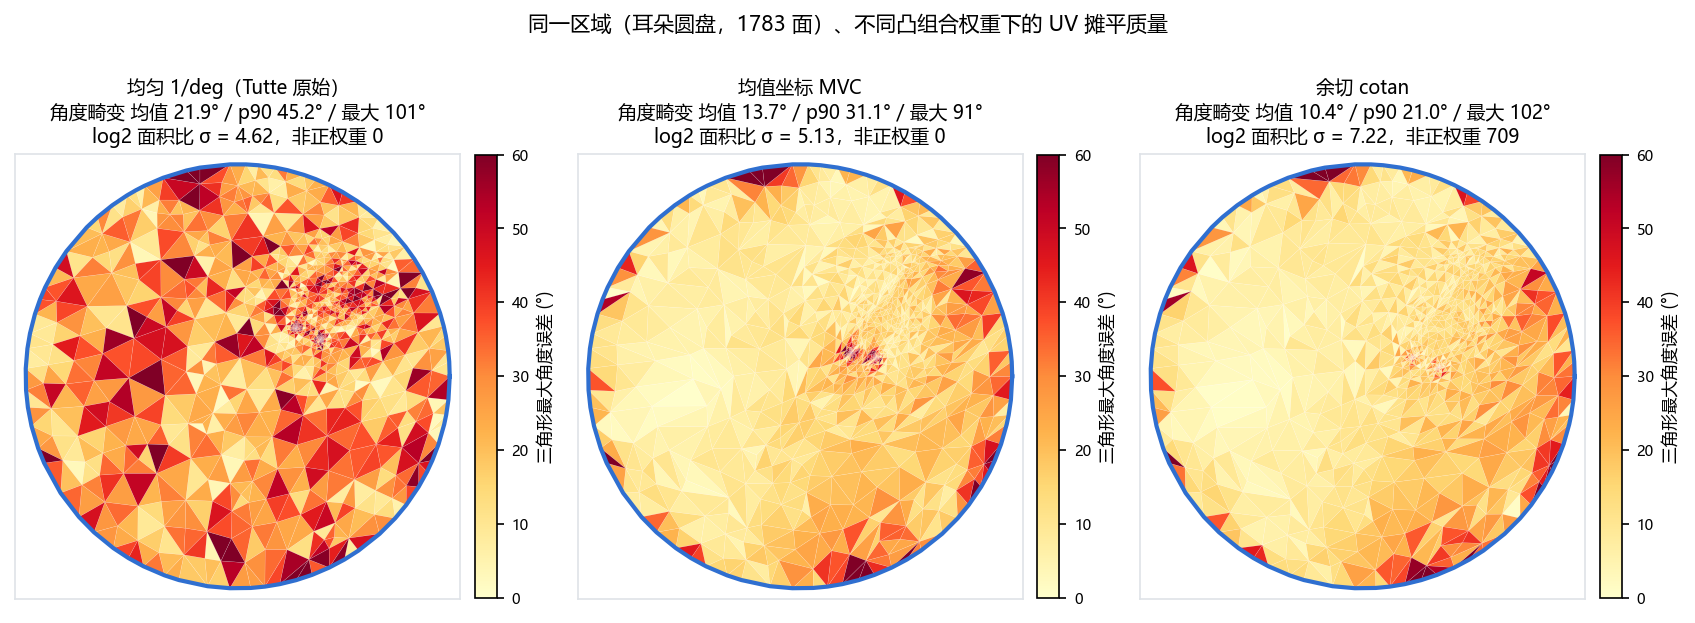
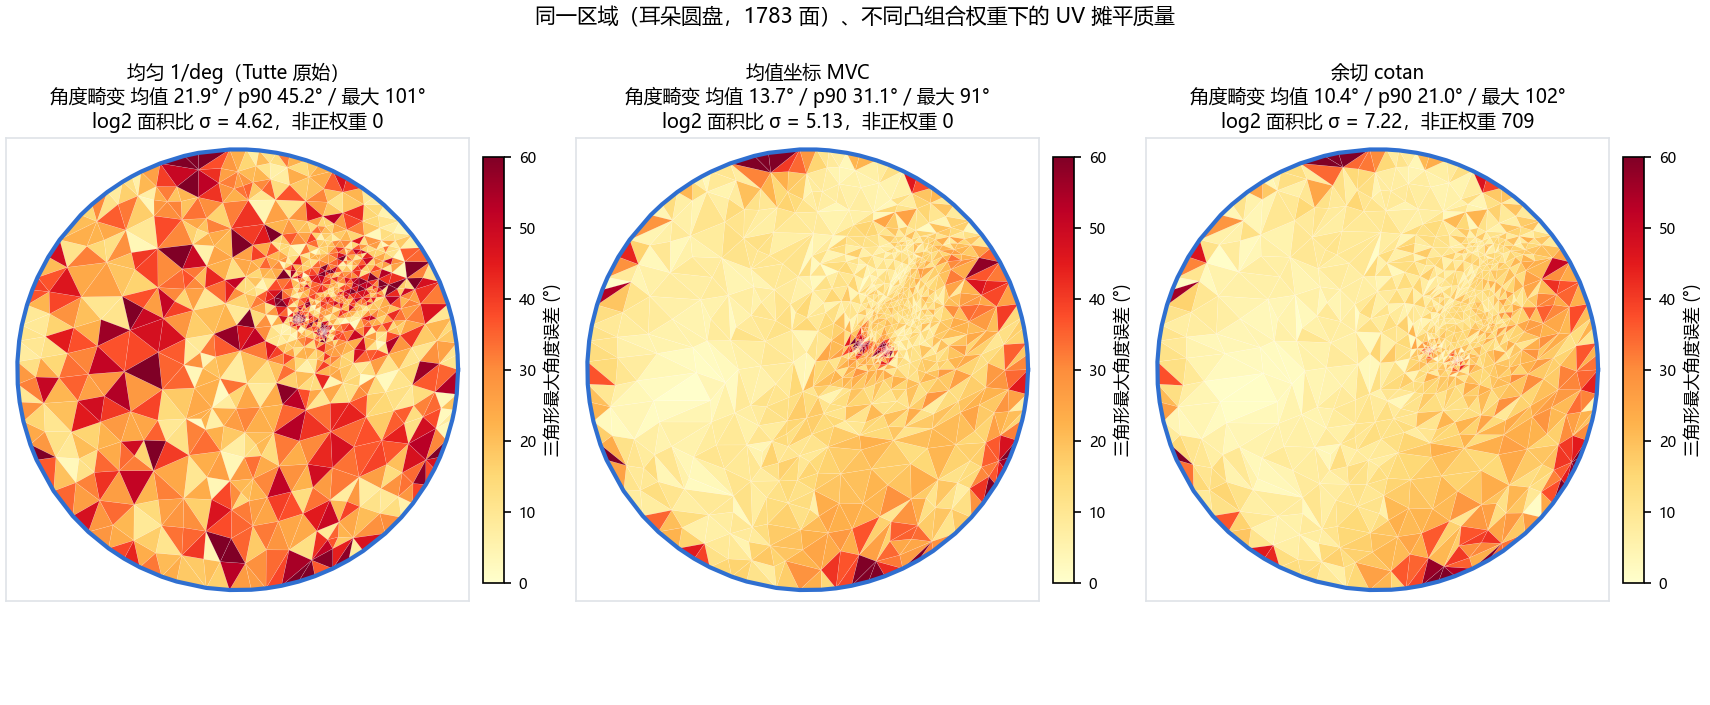
图 2 改用 constrained layout，图例移到底部；新增 check-fig-overlap.py 出图自检

diff --git a/render-theory-figs.py b/render-theory-figs.py
@@ -311,8 +311,12 @@ def fig_convex_combo():
     nb = nb[np.argsort(np.arctan2(nb[:, 1], nb[:, 0]))]
     k = len(nb)
 
-    fig, axes = plt.subplots(1, 2, figsize=(9.6, 4.6))
-    fig.subplots_adjust(left=0.03, right=0.97, top=0.88, bottom=0.06, wspace=0.12)
+    from matplotlib.gridspec import GridSpec
+    # 用 constrained layout 让 matplotlib 自己算间距：总标题在顶、图例在底，
+    # 不再手工写 top/bottom，避免文字互相压到
+    fig = plt.figure(figsize=(10.2, 6.75), layout='constrained')
+    gs = GridSpec(2, 2, figure=fig, height_ratios=[4.4, 1.0])
+    fig.get_layout_engine().set(wspace=0.16, hspace=0.10, w_pad=0.02, h_pad=0.06)
 
     from scipy.spatial import ConvexHull, Delaunay
     hull_idx = ConvexHull(nb).vertices
@@ -335,35 +339,77 @@ def fig_convex_combo():
           % (w.sum(), w2.sum(), bool(inside.find_simplex(ctr) >= 0),
              bool(inside.find_simplex(ctr2) < 0)))
 
-    for ax, ctr_i, w_i, title, sub in (
-        (axes[0], ctr, w, '(a) $w_{ij}>0$、$\\sum_j w_{ij}=1$：重心落在邻居凸包内', '绕向一致，局部单射'),
-        (axes[1], ctr2, w2, '(b) $w_1=-0.60$（仍满足 $\\sum_j w_{ij}=1$）：重心被推出凸包', '绕向翻转，出现翻面'),
-    ):
+    for col, (ctr_i, w_i, title, sub) in enumerate((
+        (ctr, w, '(a) $w_{ij}>0$、$\\sum_j w_{ij}=1$', '重心落在邻居凸包内，绕向一致'),
+        (ctr2, w2, '(b) $w_1=-0.60$（仍有 $\\sum_j w_{ij}=1$）', '重心被推出凸包，绕向翻转'),
+    )):
         from matplotlib.patches import Polygon as MplPoly
+        ax = fig.add_subplot(gs[0, col])
         ax.add_patch(MplPoly(hull, closed=True, facecolor='#eef3fa', edgecolor=LINE, lw=1.0, zorder=0))
+        nflip = 0
         for j in range(k):
             a, b = nb[j], nb[(j + 1) % k]
             tri = np.vstack([ctr_i, a, b])
             s = (a[0] - ctr_i[0]) * (b[1] - ctr_i[1]) - (b[0] - ctr_i[0]) * (a[1] - ctr_i[1])
             bad = s <= 0
+            nflip += bad
             ax.add_patch(MplPoly(tri, closed=True,
                                  facecolor=(RED if bad else '#dce9f8'),
                                  edgecolor=(RED if bad else BLUE), lw=1.0, alpha=0.9, zorder=1))
         cols = [RED if x < 0 else GREEN for x in w_i]
-        ax.scatter(nb[:, 0], nb[:, 1], s=58, c=cols, zorder=3, edgecolors='white', linewidths=1)
-        ax.scatter([ctr_i[0]], [ctr_i[1]], s=95, c=BLUE, marker='*', zorder=4,
-                   edgecolors='white', linewidths=0.8)
+        ax.scatter(nb[:, 0], nb[:, 1], s=560, c=cols, zorder=3,
+                   edgecolors='white', linewidths=1.4)
         for j in range(k):
-            ax.annotate(f'$w_{{{j}}}=${w_i[j]:+.2f}',
-                        (nb[j, 0], nb[j, 1]),
-                        (nb[j, 0] * 1.28 + 0.03, nb[j, 1] * 1.28),
-                        fontsize=8.5, color=(RED if w_i[j] < 0 else GREY), ha='center')
-        ax.set_xlim(-1.55, 1.65); ax.set_ylim(-1.55, 1.65)
+            ax.text(nb[j, 0], nb[j, 1], str(j), ha='center', va='center',
+                    fontsize=9, color='white', zorder=5)
+        ax.scatter([ctr_i[0]], [ctr_i[1]], s=170, c=BLUE, marker='*', zorder=4,
+                   edgecolors='white', linewidths=0.8)
+        ax.annotate('重心', (ctr_i[0], ctr_i[1]), xytext=(0, -30),
+                    textcoords='offset points', fontsize=9.5, color=BLUE, ha='center',
+                    arrowprops=dict(arrowstyle='->', color=BLUE, lw=1.0,
+                                    shrinkA=2, shrinkB=6))
+        ax.set_xlim(-1.60, 1.60); ax.set_ylim(-1.50, 1.55)
         ax.set_aspect('equal'); ax.axis('off')
-        ax.set_title(title + '\n' + sub, fontsize=10.5, pad=6)
+        ax.set_title(title + '\n' + sub + f'（翻面 {nflip}）', fontsize=10.5, pad=6)
 
-    fig.suptitle('图 2  凸组合条件：内部顶点取邻居的加权平均，权重为正时绕向不变',
-                 fontsize=11.5, y=0.97)
+        # 权重条形图
+        axb = fig.add_subplot(gs[1, col])
+        axb.bar(np.arange(k), w_i, width=0.62,
+                color=[RED if x < 0 else GREEN for x in w_i], zorder=2)
+        axb.axhline(0, color=GREY, lw=0.9, zorder=3)
+        for j, v in enumerate(w_i):
+            axb.text(j, v + (0.03 if v >= 0 else -0.13), f'{v:+.2f}',
+                     ha='center', fontsize=8.5, color=(RED if v < 0 else GREY))
+        axb.set_xticks(np.arange(k))
+        axb.set_xticklabels([f'$w_{j}$' for j in range(k)], fontsize=9)
+        axb.set_ylim(-0.95, 0.62)
+        axb.set_ylabel('权重', fontsize=9)
+        for s_ in ('top', 'right'):
+            axb.spines[s_].set_visible(False)
+        for s_ in ('left', 'bottom'):
+            axb.spines[s_].set_color(LINE)
+        axb.tick_params(labelsize=8.5, color=LINE)
+
+    from matplotlib.patches import Patch
+    from matplotlib.lines import Line2D
+
+    handles = [
+        Patch(facecolor='#eef3fa', edgecolor=LINE, lw=1.0, label='邻居凸包'),
+        Patch(facecolor='#dce9f8', edgecolor=BLUE, lw=1.0, label='扇形：绕向一致'),
+        Patch(facecolor=RED, edgecolor=RED, lw=1.0, label='扇形：绕向翻转（翻面）'),
+        Line2D([], [], marker='o', ls='', ms=8, mfc=GREEN, mec='white',
+               mew=1.2, label='邻居顶点 $w_j>0$'),
+        Line2D([], [], marker='o', ls='', ms=8, mfc=RED, mec='white',
+               mew=1.2, label='邻居顶点 $w_j<0$'),
+        Line2D([], [], marker='*', ls='', ms=13, mfc=BLUE, mec='white',
+               mew=0.8, label='凸组合重心 $\\mathbf{u}_v$'),
+    ]
+    # loc='outside lower center'：图例排在图的最下方，constrained layout 会为它预留高度
+    fig.legend(handles=handles, loc='outside lower center', ncol=3, frameon=False,
+               fontsize=9.5, columnspacing=1.6, handletextpad=0.5, labelspacing=0.5)
+    fig.suptitle('图 2  凸组合条件：内部顶点取邻居的加权平均，$w_{ij}>0$ 时重心不跑出邻居凸包，'
+                 '绕向保持不变', fontsize=11.5)
+
     p = os.path.join(OUT, 'theory2-convex-combo.png')
     fig.savefig(p, dpi=125, facecolor='white')
     plt.close(fig)

diff --git a/check-fig-overlap.py b/check-fig-overlap.py
@@ -1,0 +1,153 @@
+# -*- coding: utf-8 -*-
+"""无浏览器环境下检查出图脚本产出的图里，文字有没有互相压到。
+
+做法：拦截 Figure.savefig 把每个 figure 留下来，用 Agg renderer 取每个文字对象的
+window_extent，两两求交。坐标轴被 axis('off') 关掉的那些刻度标签不可见，跳过。
+
+    python check-fig-overlap.py                 # 检查两个 render 脚本
+    python check-fig-overlap.py render-xxx.py   # 只检查指定脚本
+"""
+import runpy
+import io
+import os
+import re
+import sys
+
+import matplotlib
+matplotlib.use('Agg')
+import matplotlib.pyplot as plt
+
+HERE = os.path.dirname(os.path.abspath(__file__))
+sys.stdout.reconfigure(encoding='utf-8')
+
+TARGETS = ['render-theory-figs.py', 'render-bunny-figs.py']
+
+
+def collect(script):
+    """执行出图脚本，返回 [(保存路径, figure), ...]"""
+    saved, logs = [], []
+
+    def fake_savefig(self, *a, **k):
+        saved.append(self)
+
+    def fake_close(*a, **k):
+        pass
+
+    orig_savefig = matplotlib.figure.Figure.savefig
+    orig_close = plt.close
+    matplotlib.figure.Figure.savefig = fake_savefig
+    plt.close = fake_close
+    try:
+        buf = io.StringIO()
+        old = sys.stdout
+        sys.stdout = buf
+        try:
+            # run_name='__main__'：出图脚本的主流程通常在 __main__ 块里
+            runpy.run_path(script, run_name='__main__')
+        finally:
+            sys.stdout = old
+        logs = buf.getvalue().splitlines()
+    finally:
+        matplotlib.figure.Figure.savefig = orig_savefig
+        plt.close = orig_close
+
+    names = []
+    for ln in logs:
+        m = re.search(r'→\s*(.+\.png)', ln)
+        if m:
+            names.append(m.group(1).strip())
+    if len(names) != len(saved):
+        names = [f'figure[{i}]' for i in range(len(saved))]
+    return list(zip(names, saved))
+
+
+def bbox(art, r):
+    try:
+        b = art.get_window_extent(renderer=r)
+    except Exception:
+        return None
+    return b if (b.width > 0 and b.height > 0) else None
+
+
+def items_of(fig, r):
+    out = []
+    for ax in fig.axes:
+        if not ax.get_visible():
+            continue
+        for t in list(ax.texts) + [ax.title]:
+            if t.get_visible() and t.get_text().strip():
+                b = bbox(t, r)
+                if b:
+                    out.append(('text', t.get_text()[:24].replace('\n', '/'), b))
+        if ax.axison:                       # 只统计坐标轴真的开着的刻度标签
+            for tk in ax.get_xticklabels() + ax.get_yticklabels():
+                if tk.get_visible() and tk.get_text().strip():
+                    b = bbox(tk, r)
+                    if b:
+                        out.append(('tick', tk.get_text(), b))
+    sup = getattr(fig, '_suptitle', None)
+    for t in fig.texts:
+        if t is sup:                        # suptitle 也在 fig.texts 里，下面单独统计
+            continue
+        b = bbox(t, r)
+        if b:
+            out.append(('figtext', t.get_text()[:24], b))
+    for lg in fig.legends:
+        b = bbox(lg, r)
+        if b:
+            out.append(('legend', '<图例整块>', b))
+        for t in lg.get_texts():
+            b = bbox(t, r)
+            if b:
+                out.append(('legendtext', t.get_text()[:18], b))
+    if sup is not None:
+        b = bbox(sup, r)
+        if b:
+            out.append(('suptitle', sup.get_text()[:24], b))
+    return out
+
+
+def check(fig, name):
+    r = fig.canvas.get_renderer()
+    fig.canvas.draw()
+    items = items_of(fig, r)
+    bad = []
+    for i in range(len(items)):
+        for j in range(i + 1, len(items)):
+            (k1, t1, b1), (k2, t2, b2) = items[i], items[j]
+            if k1.startswith('legend') and k2.startswith('legend'):
+                continue
+            ix = min(b1.x1, b2.x1) - max(b1.x0, b2.x0)
+            iy = min(b1.y1, b2.y1) - max(b1.y0, b2.y0)
+            if ix > 1.0 and iy > 1.0:
+                bad.append((k1, t1, k2, t2, ix, iy))
+    W, H = fig.canvas.get_width_height()
+    # 文字是否被画布切掉
+    clipped = [(k, t) for k, t, b in items
+               if b.x0 < -1 or b.y0 < -1 or b.x1 > W + 1 or b.y1 > H + 1]
+    ok = (not bad) and (not clipped)
+    print('%-28s %4dx%-4d  受检 %2d 项  重叠 %d  出界 %d  %s'
+          % (os.path.basename(name), W, H, len(items), len(bad), len(clipped),
+             'OK' if ok else 'FAIL'))
+    for k1, t1, k2, t2, ix, iy in bad[:6]:
+        print('      重叠 [%s]%r × [%s]%r  %.0f×%.0f px' % (k1, t1, k2, t2, ix, iy))
+    for k, t in clipped[:6]:
+        print('      出界 [%s]%r' % (k, t))
+    return 0 if ok else 1
+
+
+def main():
+    scripts = sys.argv[1:] or [os.path.join(HERE, s) for s in TARGETS]
+    fail = 0
+    for s in scripts:
+        s = s if os.path.isabs(s) else os.path.join(HERE, s)
+        print('== %s' % os.path.basename(s))
+        for path, fig in collect(s):
+            fail |= check(fig, path)
+        plt.close('all')
+    print('结论：%s' % ('全部无重叠' if fail == 0 else '存在重叠，见上'))
+    return fail
+
+
+if __name__ == '__main__':
+    sys.exit(main())

diff --git a/render-bunny-figs.py b/render-bunny-figs.py
@@ -732,7 +732,7 @@ def main():
     W = {}
     for kind in ('uniform', 'mvc', 'cotan'):
         W[kind] = run('w_' + kind, 'ear', 20, kind=kind)
-    fig, axes = plt.subplots(1, 3, figsize=(11.4, 4.3), dpi=150)
+    fig, axes = plt.subplots(1, 3, figsize=(11.4, 4.7), dpi=150, layout='constrained')
     vmax = 60.0
     for ax, kind, label in zip(axes, ('uniform', 'mvc', 'cotan'),
                                ('均匀 1/deg（Tutte 原始）', '均值坐标 MVC', '余切 cotan')):
@@ -768,9 +768,8 @@ def main():
         cb = fig.colorbar(sm, ax=ax, fraction=0.046, pad=0.03)
         cb.set_label('三角形最大角度误差 (°)', fontsize=8)
         cb.ax.tick_params(labelsize=7)
-    fig.suptitle('同一区域（耳朵圆盘，1783 面）、不同凸组合权重下的 UV 摊平质量', fontsize=10, y=1.02)
-    fig.tight_layout()
-    fig.savefig(os.path.join(OUT, 'fig6-weights.png'), bbox_inches='tight', facecolor='white')
+    fig.suptitle('同一区域（耳朵圆盘，1783 面）、不同凸组合权重下的 UV 摊平质量', fontsize=10)
+    fig.savefig(os.path.join(OUT, 'fig6-weights.png'), facecolor='white')
     plt.close(fig)
 
     # 7 贴图本身：4×4 UV checker，标出 u / v 方向

diff --git a/blog-tutte-theory.md b/blog-tutte-theory.md
@@ -67,7 +67,7 @@ $$f(M) \subseteq \operatorname{conv}\big(f(\partial M)\big) = \Omega$$
 
 ![凸组合条件：权重全为正时重心落在邻居凸包内，出现负权重时重心被推出凸包](figs/theory2-convex-combo.png)
 
-上图是一个 7 邻居的星形邻域，两种权重的取值都满足 $\sum_j w_{ij} = 1$。左图重心在凸包内，7 个三角形绕向一致；右图把 $w_1$ 改成 $-0.60$（其余按原比例放大以保持和为 1），重心被推出凸包，有 2 个三角形的绕向翻转（红）。
+上图是一个 7 邻居的星形邻域，两种权重的取值都满足 $\sum_j w_{ij} = 1$，每列下方的条形图给出这 7 个权重的具体数值。左图重心在凸包内，7 个三角形绕向一致；右图把 $w_1$ 改成 $-0.60$（其余按原比例放大以保持和为 1），重心被推出凸包，有 2 个三角形的绕向翻转（红）。
 
 ### 第三步：边界上是同胚
 

diff --git a/README.md b/README.md
@@ -129,6 +129,7 @@ check-tex-parity.py             页面贴图与离线贴图逐像素比对
 check-tex-raster.js             上面那个脚本用的 canvas 光栅化器
 check-html-syntax.js            三个页面内联 script 的编译检查（无浏览器环境下用）
 check-blog-style.py             笔记交付前校验（禁用句式、公式配对、图片引用）
+check-fig-overlap.py            出图自检：文字互相压到 / 被画布切掉
 ```
 
 ## 复现
@@ -149,6 +150,7 @@ node check-bunny-page.js           # JS / Python 数字逐项比对
 node check-html-syntax.js *.html   # 内联 script 语法检查
 python check-tex-parity.py         # 两张 UV 贴图逐像素比对
 python check-blog-style.py         # 笔记风格与引用校验
+python check-fig-overlap.py        # 11 张图的文字重叠 / 出界自检
 ```
 
 ---
